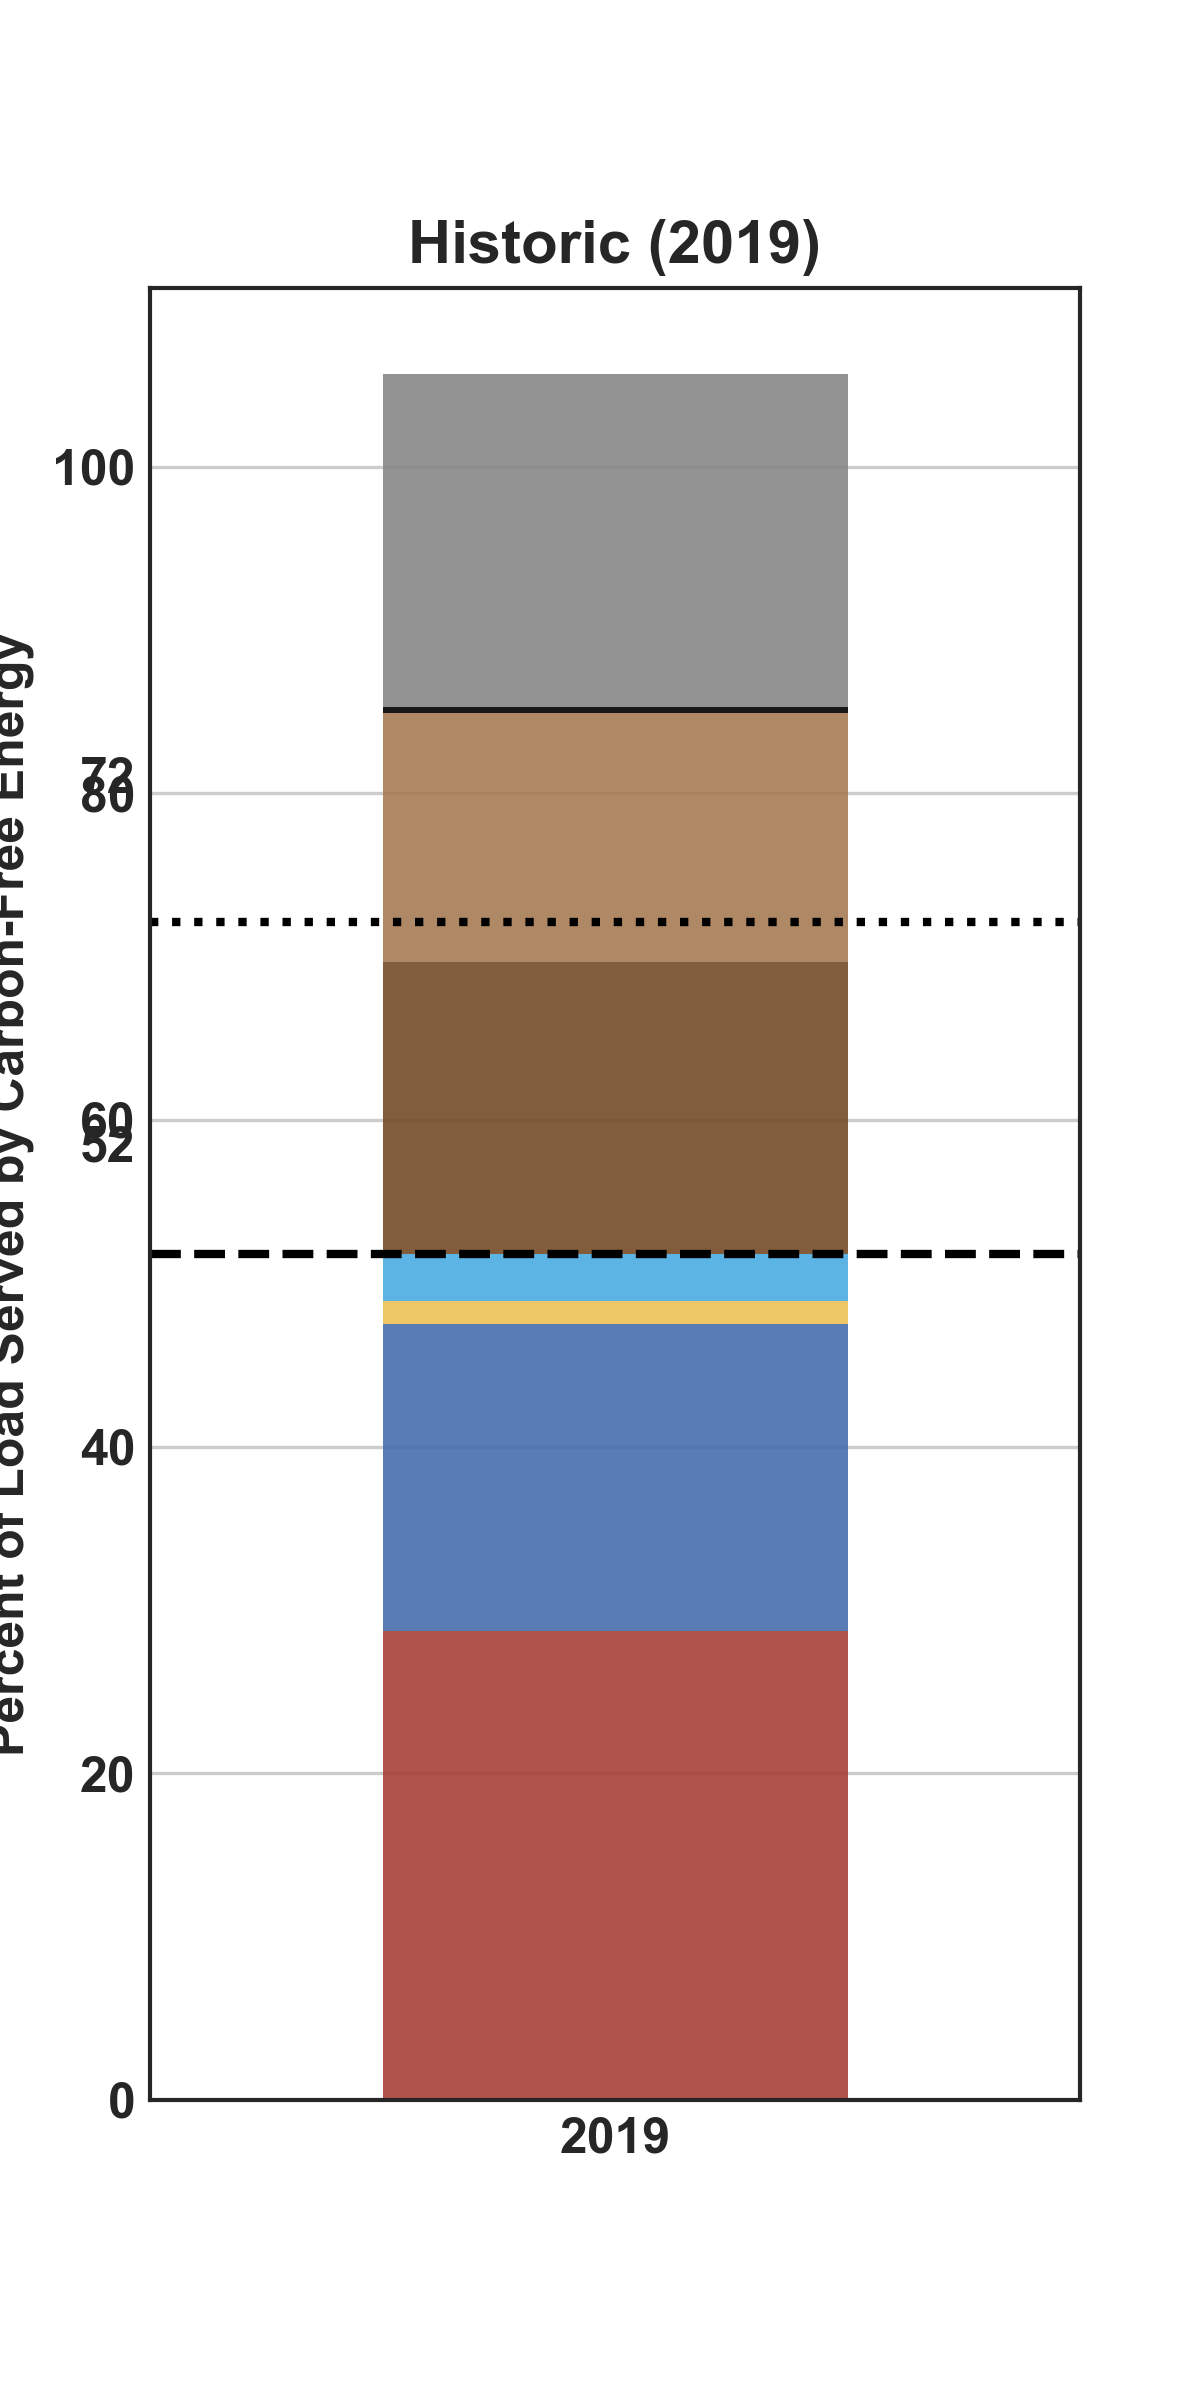
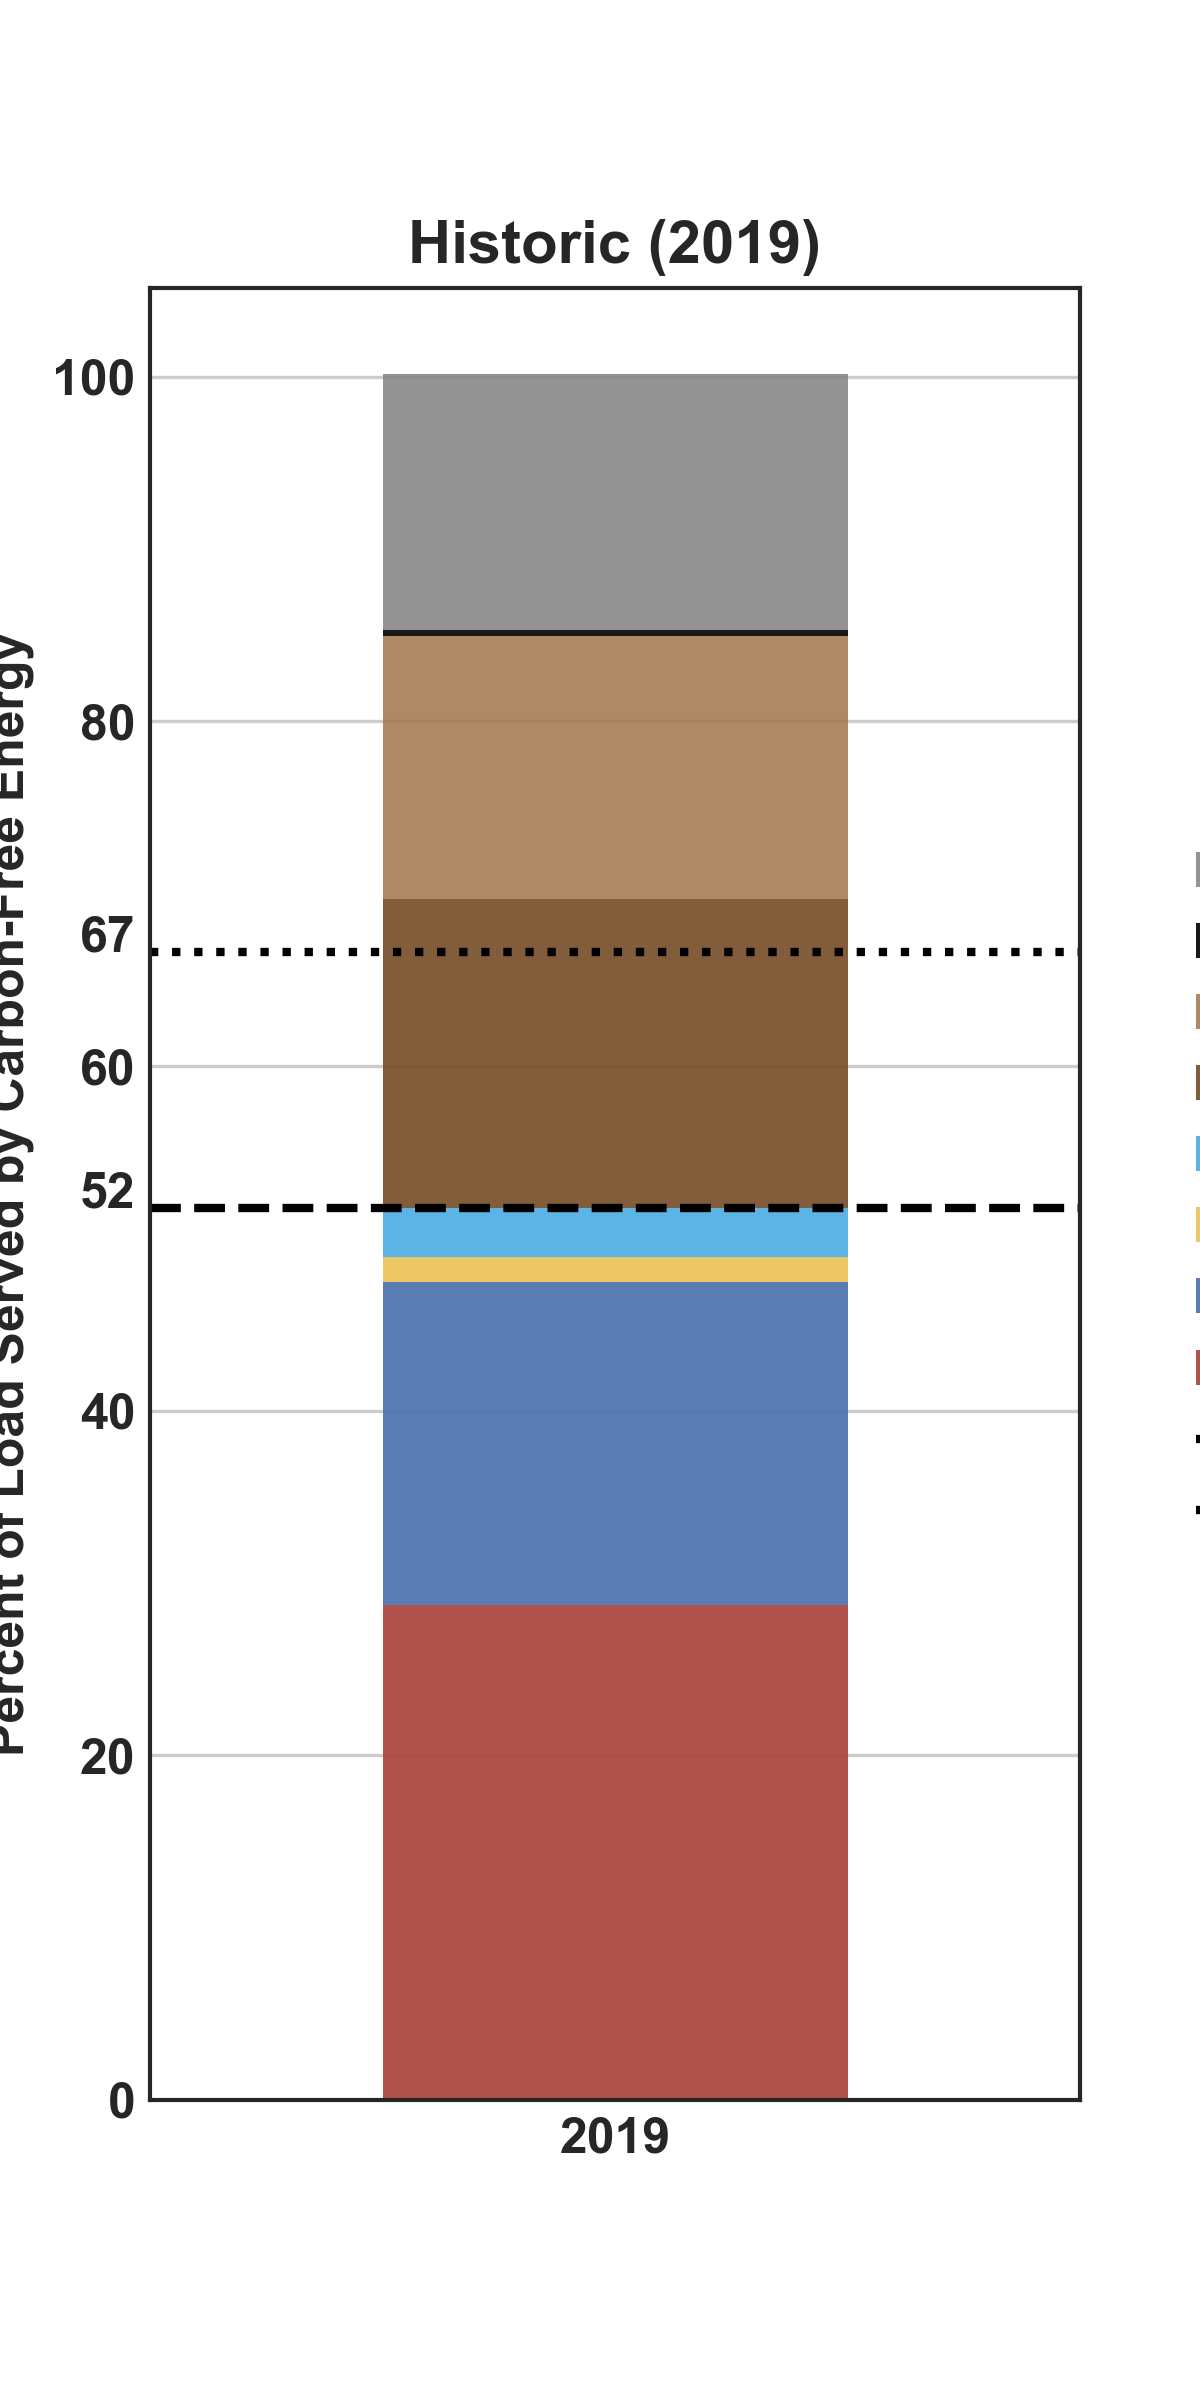
Fixed overestimation of interface flows
Removed HQ Net which is a subset of one of the external interface flows

diff --git a/nyisovis.py b/nyisovis.py
@@ -33,10 +33,12 @@ class NYISOVis:
         load = NYISOData(dataset='load_5m',year=year).df.tz_convert('US/Eastern')['NYCA']
         fuel_mix = NYISOData(dataset='fuel_mix_5m',year=year).df.tz_convert('US/Eastern')
         imports = NYISOData(dataset='interface_flows_5m', year=year).df.tz_convert('US/Eastern')
-        imports = imports.loc[:,('External Flows',slice(None),'Flow (MW)')].sum(axis='columns')
+        
+        imports = imports.loc[:, ('External Flows', slice(None), 'Flow (MW)')]
+        imports.drop(('External Flows', 'HQ NET', 'Flow (MW)'), axis='columns', inplace=True)
+        imports = imports.sum(axis='columns')
         
         dfs = {'load':load, 'fuel_mix':fuel_mix, 'imports': imports} # group datasets into dictionary to apply 
-    
         def power_to_energy(df):
             """Energy Converstion [MWh] and Resampling By Summing Energy"""
             return (df * 1/12).resample(f).sum()/1000  #MW->MWh->GWh
@@ -53,6 +55,7 @@ class NYISOVis:
             """Adjust index for months and make index objects to label correctly"""
             if f == 'M':
                 df.index = df.index.shift(-1,'M').shift(1,'D')
+                df = df/1000 # GWh->TWh
             df.index = df.index.astype('O')
             return df       
         dfs = {k: month_adj_object(v) for k, v in dfs.items()}
@@ -67,8 +70,12 @@ class NYISOVis:
         #Legend
         ax.legend(loc='upper center', bbox_to_anchor=(0.5, -0.05), ncol=4, fancybox=True, shadow=False)
         #Axes
+        if f == 'M':
+            ylabel = 'Energy [TWh]'
+        else:
+            ylabel = 'Energy [GWh]'
         ax.set(title=f'Historic ({year})',
-               xlabel=None, ylabel='Energy [GWh]',
+               xlabel=None, ylabel=ylabel,
                xlim=[dfs['fuel_mix'].index[0], dfs['fuel_mix'].index[-1]],
                ylim=None)
         ax.xaxis.set_major_formatter(mdates.DateFormatter('%b'))
@@ -93,8 +100,9 @@ class NYISOVis:
         load = NYISOData(dataset='load_5m',year=year).df.tz_convert('US/Eastern')['NYCA']
         fuel_mix = NYISOData(dataset='fuel_mix_5m',year=year).df.tz_convert('US/Eastern')
         imports = NYISOData(dataset='interface_flows_5m', year=year).df.tz_convert('US/Eastern')
+        imports.drop(('External Flows', 'HQ NET', 'Flow (MW)'), axis='columns', inplace=True)
         imports = imports.loc[:,('External Flows',slice(None),'Flow (MW)')].sum(axis='columns')
-    
+
         #Energy Converstion [MWh] and Resampling By Summing Energy
         load = (load * 1/12).resample(f).sum()  
         fuel_mix = (fuel_mix * 1/12).resample(f).sum()   
@@ -130,23 +138,21 @@ class NYISOVis:
                     'Carbon-Free: {:.0f}% + Imports: {:.0f}% (100% by 2040)']
         colors = ['limegreen','lawngreen']
         h_distances = [0.05, 0.05]
-        for t,l,c,h in zip(data, averages,colors,h_distances):
+        for t,l,c,h in zip(data, averages, colors, h_distances):
             avg = fuel_mix[t].sum(axis='index').sum() / load.sum(axis='index') * 100
             avg_imp = fuel_mix[t+['Imports']].sum(axis='index').sum() / load.sum(axis='index') * 100
             ax.axhline(y=avg, xmax=h, color='k', linestyle='solid', lw=1)
             ax.text(h, avg/100, l.format(avg, avg_imp), 
                      bbox=dict(boxstyle='round',ec='black',fc=c, alpha=0.9),
                      transform=ax.transAxes)
+            
         #Legend
-        #handles, labels = ax.get_legend_handles_labels()
         ax.legend(loc='upper center',bbox_to_anchor=(0.45, -0.05),
                   ncol=5, fancybox=True, shadow=False)
-        
         #Axes
         ax.set(title=f'Historic ({year})',
                xlabel=None, ylabel='Percent of Load Served by Carbon-Free Energy',
                xlim=[df.index[0], df.index[-1]], ylim=[0, 100])
-        
         ax.xaxis.set_major_formatter(mdates.DateFormatter('%b'))
         plt.setp(ax.get_xticklabels(), rotation=0, horizontalalignment='center')
         plt.setp(ax.xaxis.get_ticklines() + ax.yaxis.get_ticklines(), markersize=3)
@@ -173,14 +179,14 @@ class NYISOVis:
         # Carbon Free Line
         perc = stats[f'Historic ({year}) [% of Load]'].loc['Total Carbon-Free Generation']
         ax.axhline(y=perc, color='k', linestyle='dashed',
-                    label='CO$_2$e-Free Generation')
-        ax.text(-0.0755, perc/100,'{:.0f}'.format(perc), transform=ax.transAxes)
+                    label='Carbon-Free Generation')
+        ax.text(-0.575, perc,'{:.0f}'.format(perc))
         # Carbon Free + Imports Line
         perc = stats[f'Historic ({year}) [% of Load]'].loc[['Total Carbon-Free Generation',
                                                             'Imports']].sum()
         ax.axhline(y=perc, color='k', linestyle='dotted',
-                    label='CO$_2$e-Free Generation + Imports')
-        ax.text(-0.0755, perc/100,'{:.0f}'.format(perc), transform=ax.transAxes)
+                    label='Carbon-Free Generation + Imports')
+        ax.text(-0.575, perc,'{:.0f}'.format(perc))
         
         #Legend
         handles, labels = ax.get_legend_handles_labels()

diff --git a/nyisodata.py b/nyisodata.py
@@ -31,6 +31,8 @@ class NYISOData:
         self.year = str(year) #force to be string if not already
         self.curr_date = datetime.now(tz=pytz.timezone('US/Eastern')) #datetime object for current time
         self.create_csvs = create_csvs #if false will oncreate pickle dbs
+        self.reconstruct = reconstruct
+        self.redownload = redownload
         
         self.storage_dir =  pl.Path(c_dir,'storage')  # where databases and raw csvs will be stored
         self.download_dir = pl.Path(self.storage_dir, 'raw_datafiles', self.dataset, self.year)  # directory that raw csv will be extracted to
@@ -38,25 +40,24 @@ class NYISOData:
         self.dataset_details = None  # namedtuple containing details
         
         self.config()  # sets some of the class attributes
-        self.main(redownload, reconstruct)
+        self.main()
 
     def config(self):
         """Sets important instance attributes and creates directories for storing files"""
         self.dataset_details = utils.fetch_dataset_url_map(self.dataset)
-
         for dir_ in [self.download_dir, self.output_dir]:
             dir_.mkdir(parents=True, exist_ok=True)
 
-    def main(self, redownload, reconstruct):
+    def main(self):
         """Decides whether to download new data and (re)make database or just read existing one."""
         # Check whether to get new data and construct new DB
         file_ = pl.Path(self.output_dir, f'{self.year}_{self.dataset}.pkl')
-        if not file_.exists() or redownload or reconstruct:
-            if redownload:
+        if not file_.exists() or self.redownload or self.reconstruct:
+            if self.redownload:
                 self.get_raw_data()
             #DataQuality(dataset=self.dataset, year=self.year).fix_issues() #edit raw datafiles with known issues
             self.construct_database()
-            #self.DataQuality(dataset=self.dataset, year=self.year).post_db_construction_fixes()
+            #self.DataQuality(dataset=self.dataset, year=self.year, output_dir = self.output_dir).post_db_construction_fixes()
         else:
             self.df = pd.read_pickle(file_)
 
@@ -162,9 +163,9 @@ def construct_databases(years, datasets, reconstruct=False, create_csvs=False):
 
 EXTERNAL_TFLOWS_MAP = {'SCH - HQ - NY': 'HQ CHATEAUGUAY',
                        'SCH - HQ_CEDARS': 'HQ CEDARS',
-                       'SCH - HQ_IMPORT_EXPORT': 'HQ NET',
+                       'SCH - HQ_IMPORT_EXPORT': 'SCH - HQ_IMPORT_EXPORT',
                        'SCH - NE - NY': 'NPX NEW ENGLAND (NE)',
-                       'SCH - NPX_1385': 'NPX 1385 NORTHPORT (NNC)',
+                       'SCH - NPX_1385':'NPX 1385 NORTHPORT (NNC)',
                        'SCH - NPX_CSC': 'NPX CROSS SOUND CABLE (CSC)',
                        'SCH - OH - NY': 'IESO',
                        'SCH - PJ - NY': 'PJM KEYSTONE',

diff --git a/data_quality.py b/data_quality.py
@@ -6,9 +6,10 @@ lib_dir = pl.Path(__file__).resolve().parent
 
 class DataQuality:
     
-    def __init__(self,dataset,year):
+    def __init__(self,dataset, year, output_dir):
         self.dataset= dataset
         self.year = year
+        self.output_dir = output_dir
         self.fix_specific_issue()
     
     def fix_specific_issue(self):
@@ -25,6 +26,12 @@ class DataQuality:
         if self.dataset == 'interface_flows_5m':
             #remove losses from external interface flows
             return None
+    
+    @staticmethod
+    def issue_external_imports():
+        """Distributes external interface losses proportionally to imported energy"""
+        
+        
             
     @staticmethod
     def issue_fuelmix_2017():

diff --git a/nyisostat.py b/nyisostat.py
@@ -38,6 +38,7 @@ class NYISOStat:
         load = NYISOData(dataset='load_5m',year=year).df.tz_convert('US/Eastern')['NYCA']
         fuel_mix = NYISOData(dataset='fuel_mix_5m',year=year).df.tz_convert('US/Eastern')
         imports = NYISOData(dataset='interface_flows_5m', year='2019').df.tz_convert('US/Eastern')
+        imports.drop(('External Flows', 'HQ NET', 'Flow (MW)'), axis='columns', inplace=True)
         imports = imports.loc[:,('External Flows',slice(None),'Flow (MW)')]
     
         #Energy Converstion [MWh] and Resampling By Summing Energy
